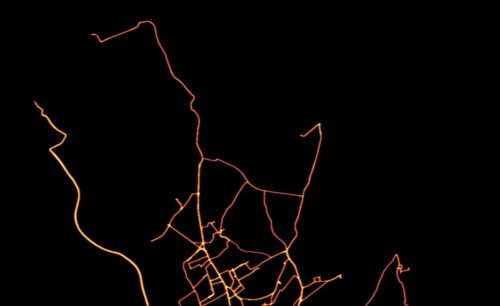
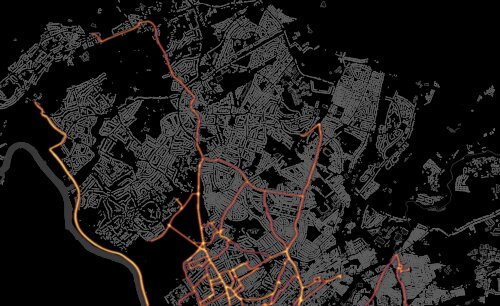
Readme fixes, test_fold renamed to example

diff --git a/draw.py b/draw.py
@@ -9,12 +9,12 @@ lgh.draw_hist(inverse=False)
 # The resolution of the output image can be increased with the parameter below
 resolution = 500
 map = mapnik.Map(resolution, resolution)
-mapnik.load_map(map, 'uni_colour.xml')
+mapnik.load_map(map, 'buildings.xml')
 area = mapnik.Box2d(*lgh.area)
 p = mapnik.Projection("+init=epsg:3857")
 map.aspect_fix_mode = mapnik.aspect_fix_mode.ADJUST_CANVAS_HEIGHT
 map.zoom_to_box(p.forward(area))
-#map.zoom_all()
-#bbox = p.forward(map.envelope())
+# map.zoom_all()
+# bbox = p.forward(map.envelope())
 mapnik.render_to_file(map, str(lgh) + '.png', 'png')
 print ('rendered image to "world.png"')

diff --git a/README.MD b/README.MD
@@ -1,6 +1,6 @@
-# Heatmap Tool For Multiple Bike Rides
+# Heatmap Visualisation Tool For Multiple Bike Rides
 
-Create and customise your own heatmap about your bike rides.
+Create and customise a heatmap of your bike rides.
 
 ## Contents
 
@@ -19,27 +19,27 @@ Create and customise your own heatmap about your bike rides.
 
 ## Examples
 
-My heatmap of 4 years of Deliveroo cycling with no background.
+My heatmap of 4 years of Deliveroo cycling with no background layer.
 
-<img src="imgs/LIGHT_F-2017-2021_L1000_B5000_M100.jpg" width=600>
+<img src="imgs/LIGHT_F-2017-2021_L1000_B5000_M100.jpg" width=500>
 
 &nbsp;
 
 My heatmap of 4 years of Deliveroo cycling with building and water layer behind.
 
-<img src="imgs/MAP_F-_L1000_B5000_M100.jpg" width=600>
+<img src="imgs/MAP_F-_L1000_B5000_M100.jpg" width=500>
 
 &nbsp;
 
-The resulting getagged `.tiff` file can be imported into ArcGIS or QGIS for further analysis or rendering opportunities.
+The resulting getagged `.tif` file can be imported into ArcGIS or QGIS for further analysis or rendering opportunities.
 
-<img src="imgs/qgis_example.jpg" width=600>
+<img src="imgs/qgis_example.jpg" width=500>
 
 &nbsp;
 
-Other scales are also possible. Below is shown my recreational rides around Bristol.
+Other scales are also possible. Below is the heatmap of my recreational rides in the vicinity of Bristol.
 
-<img src="imgs/qgis_example2.jpg" width=600>
+<img src="imgs/qgis_example2.jpg" width=500>
 
 ## Requirements
 
@@ -49,46 +49,44 @@ The python packages can be installed using `pip install -r requirements.txt`.
 
 ### GPX Files
 
-The GPX files should be placed in one folder.
-
-Each GPX file sould contain only one GPS track. The frequency of samples in the files should be constant. For best results the sampling frequency should be 1 second.
+The GPX files should be placed in one folder. Each GPX file should contain only one GPS track. The frequency of samples in the files should be constant. For best results the sampling frequency should be 1Hz (one sample per second).
 
 ### Command Line Arguments
 
-The `test_fold` folder is an example folder with a few GPX files to demonstrate the command line argumets of the script.
+The `example` folder is an example folder with a few GPX files to demonstrate the command line arguments of the script.
 
-The `-folder` or `--f` required argument sets the folder which contains the GPX files. It searches all subfolders for GPX files in a recursive fashion too.
+The required argument `-folder` or `--f` sets the folder which contains the GPX files. It searches all subfolders for GPX files in a recursive fashion too.
 
-The script can be run by simply writing
+The script can be run by simply writing:
 
 ```
-python3 draw.py -f test_fold
+python3 draw.py -f example
 ```
 
 <img src="imgs/arg_none.jpg" width=250>
 
-The extent of the map can be defined by the `--area` or `-a` argument. It expects a formatted string in the form "xmin,ymin,xmax,ymax" where *xmin* is the minimal longitude, *ymin* is the minimal latitude, xmax is the maximal longitude, ymax is the maximal longitude. If any of the four number is not given, it is inferred from the data itself. For example if we want to crop only on the bottom we should run the following command:
+The extent of the map can be defined by the `--area` or `-a` argument. It expects a formatted string in the form "xmin,ymin,xmax,ymax" where *xmin* is the minimal longitude, *ymin* is the minimal latitude, xmax is the maximal longitude, ymax is the maximal latitude. If any of the four number is not given, it is inferred from the data itself. For example if we want to crop only the bottom we should run the following command:
 
 ```
-python3 draw.py -f test_fold -a ,51.464753,,
+python3 draw.py -f example -a ,51.464753,,
 ```
 
 <img src="imgs/arg_area1.jpg" width=250>
 
-If we want to crop all four sides then run
+If we want to crop all four sides then run:
 
 ```
-python3 draw.py -f test_fold -a " -2.602665,51.444753,-2.592001,51.453004"
+python3 draw.py -f example -a " -2.602665,51.444753,-2.592001,51.453004"
 ```
 
 <img src="imgs/arg_area2.jpg" width=250>
 
-> We need the surrounding string and the extra space because the starting coordinate is negative.
+> We need the surrounding quotation signs and the extra space because the starting coordinate is negative.
 
-How the algorithm works, it divides the geographical area into a grid and places all coordinate samples into the grid cell and counts them. We can change the resolution of of the underlying grid by the argument `--bins` or `-b`. We want to be sure that we get this parameter right because both too large or too small resolution might be unsatisfactory. An example use:
+The algorithm divides the geographical area into a grid, and places all coordinate samples into the grid cells and counts the number of points in each cell. We can change the resolution of the underlying grid by the argument `--bins` or `-b` (default = 1200). We want to be sure that we get this parameter right because both too large or too small resolution might be unsatisfactory. An example use:
 
 ```
-python3 draw.py -f test_fold -a " -2.602665,51.444753,-2.592001,51.453004" -b 300
+python3 draw.py -f example -a " -2.602665,51.444753,-2.592001,51.453004" -b 300
 ```
 
 <p float="left">
@@ -97,10 +95,10 @@ python3 draw.py -f test_fold -a " -2.602665,51.444753,-2.592001,51.453004" -b 30
 </p>
 
 
-The next argument is `--limit` or `-l`. When a place is visited way too often than other places it makes all other places dark/invisible. By setting `--limit` lower we can add more colour to less visited places, by increasing it we can emphasise the most visited places. For example
+The next argument is `--limit` or `-l` (default = 30). When a place is visited way too often than other places it makes all other places dark/invisible. By setting `--limit` lower we can add more colour to less visited places, by increasing it we can emphasise the most visited places. For example:
 
 ```
-python3 draw.py -f test_fold -a " -2.602665,51.444753,-2.592001,51.453004" -b 300 -l 150
+python3 draw.py -f example -a " -2.602665,51.444753,-2.592001,51.453004" -b 300 -l 150
 ```
 
 <p float="left">
@@ -108,10 +106,10 @@ python3 draw.py -f test_fold -a " -2.602665,51.444753,-2.592001,51.453004" -b 30
 <img src="imgs/arg_limit.jpg" width=250>
 </p>
 
-The argument `--colormap` or `-c` can define the color-coding of the heatmap. We use **matplotlib** colourmaps. These can be used in the argument: https://matplotlib.org/stable/tutorials/colors/colormaps.html. For example for black and white coloring one may use
+The argument `--colormap` or `-c` (default = inferno) can define the color-coding of the heatmap. We use **matplotlib** colourmaps. These colormaps can be used in the argument: https://matplotlib.org/stable/tutorials/colors/colormaps.html. For example another coloring:
 
 ```
-python3 draw.py -f test_fold -a " -2.602665,51.444753,-2.592001,51.453004" -b 300 -l 150 -c turbo
+python3 draw.py -f example -a " -2.602665,51.444753,-2.592001,51.453004" -b 300 -l 150 -c turbo
 ```
 
 <p float="left">
@@ -119,10 +117,10 @@ python3 draw.py -f test_fold -a " -2.602665,51.444753,-2.592001,51.453004" -b 30
 <img src="imgs/arg_cmap.jpg" width=250>
 </p>
 
-Places visited very few times can seem to disappear from the image. By the `--add_min` or `-m` argument we can add more emphasis to these places, which means we compress the colours a little.
+Places visited very few times can seem to disappear from the image. By the `--add_min` or `-m` (default = 0) argument we can add more emphasis to these places, which means we compress the colours a little.
 
 ```
-python3 draw.py -f test_fold -a " -2.602665,51.444753,-2.592001,51.453004" -b 300 -l 150 -m 50
+python3 draw.py -f example -a " -2.602665,51.444753,-2.592001,51.453004" -b 300 -l 150 -m 50
 ```
 
 <p float="left">
@@ -130,10 +128,10 @@ python3 draw.py -f test_fold -a " -2.602665,51.444753,-2.592001,51.453004" -b 30
 <img src="imgs/arg_min.jpg" width=250>
 </p>
 
-There is an opportunity to smoothen the image. This can be achieved by the `-smoothing` or `-s` argument. It expect a non-negative number. 0 means does not perform smoothening. A number *n* means that it will perform smoothening with a kernel of size *2n+1*.
+There is an opportunity to smoothen the image. This can be achieved by the `-smoothing` or `-s` (default = 7) argument. It expects a non-negative number. 0 means that it does not perform smoothening. In the argument, the number *n* means that it will perform smoothening with a kernel of size *2n+1*.
 
 ```
-python3 draw.py -f test_fold -a " -2.602665,51.444753,-2.592001,51.453004" -b 300 -l 150 -s 0
+python3 draw.py -f example -a " -2.602665,51.444753,-2.592001,51.453004" -b 300 -l 150 -s 0
 ```
 
 <p float="left">
@@ -141,10 +139,10 @@ python3 draw.py -f test_fold -a " -2.602665,51.444753,-2.592001,51.453004" -b 30
 <img src="imgs/arg_smoothing.jpg" width=250>
 </p>
 
-Places where we stopped during our activities ca be emphasised by the argument `--emph_stops` or `-e` argument. It expects a postive number, and the bigger this number is the more radical the effect will become.
+Places where we stopped during our activities can be emphasised by the argument `--emph_stops` or `-e` (default = 1) argument. It expects a postive number, and the bigger this number is the more radical the effect will become.
 
 ```
-python3 draw.py -f test_fold -a " -2.602665,51.444753,-2.592001,51.453004" -b 300 -l 150 -e 8
+python3 draw.py -f example -a " -2.602665,51.444753,-2.592001,51.453004" -b 300 -l 150 -e 8
 ```
 
 <p float="left">
